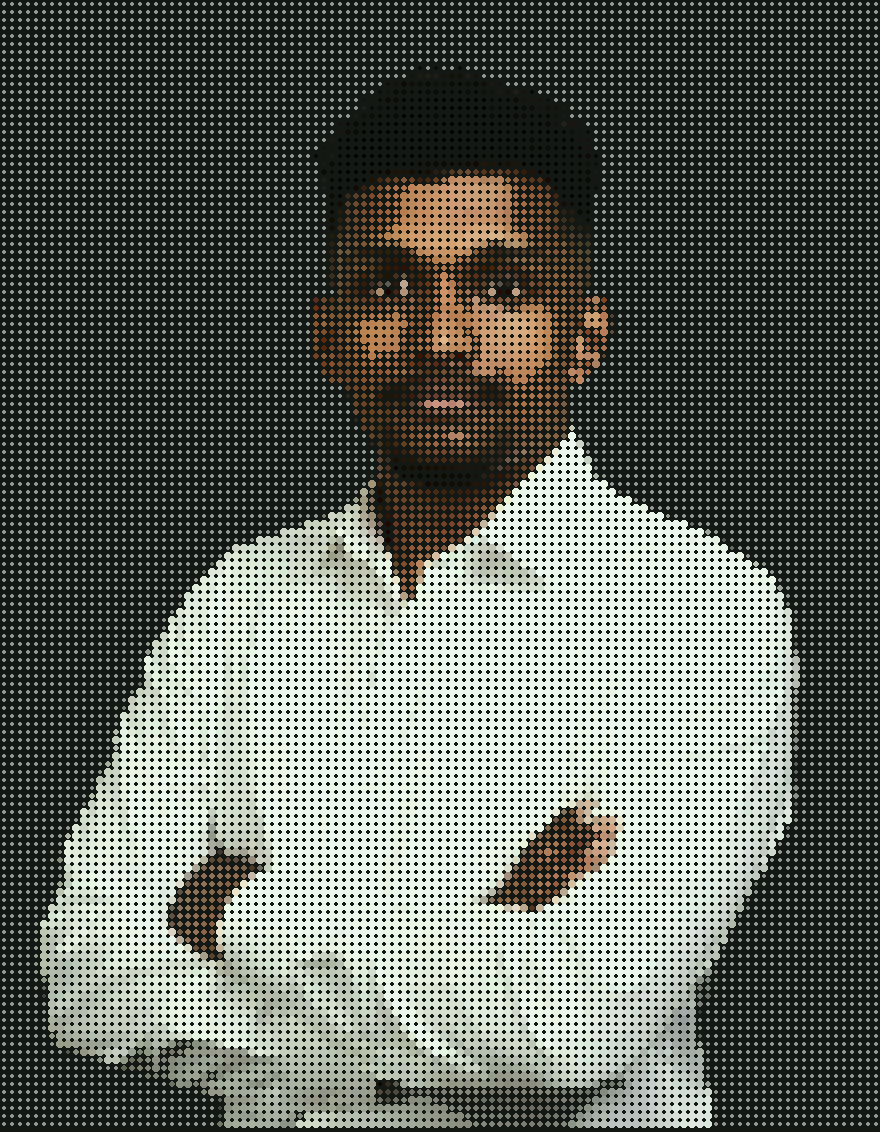
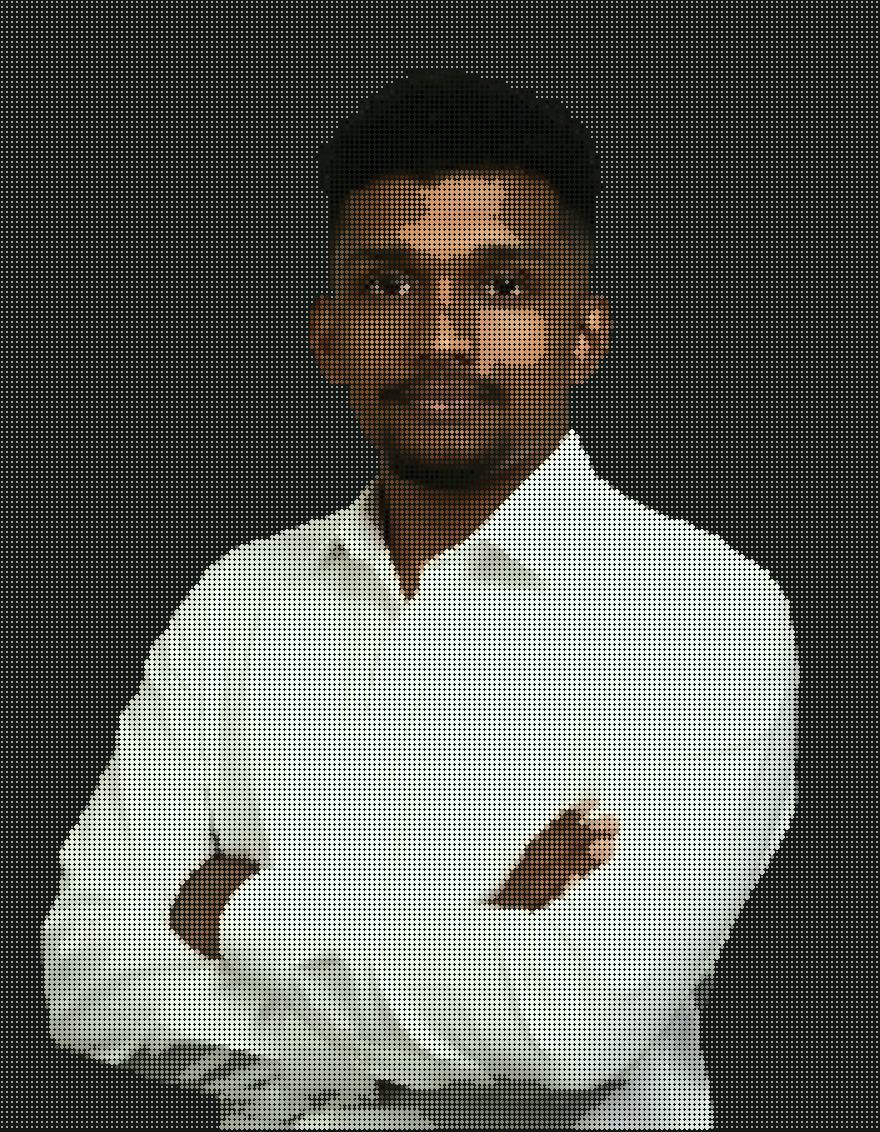
Increase pixel dot-matrix portrait density (DPI) to 112x131 grid

diff --git a/index.html b/index.html
@@ -2318,8 +2318,8 @@ document.addEventListener('keydown', e => {
   if (!canvas) return;
   const ctx = canvas.getContext('2d');
 
-  const COLS = 64;
-  const ROWS = 75;
+  const COLS = 112;
+  const ROWS = 131;
   let dots = [];
   let bgDots = [];
   let cw = 420, ch = 492, cellW = 6.5, cellH = 6.5;
@@ -2470,7 +2470,7 @@ document.addEventListener('keydown', e => {
 
       // 1. Subtle background inactive LED matrix grid
       ctx.fillStyle = 'rgba(65, 86, 68, 0.35)';
-      const bgR = Math.max(0.7, cellW * 0.14);
+      const bgR = Math.max(0.45, cellW * 0.14);
       ctx.beginPath();
       for (let i = 0; i < bgDots.length; i++) {
         const b = bgDots[i];
@@ -2516,8 +2516,8 @@ document.addEventListener('keydown', e => {
         const scanDist = Math.abs(d.y - scanY);
         const scanBoost = scanDist < 34 ? (1 - scanDist / 34) : 0;
 
-        const baseRadius = (cellW * 0.46) * (0.50 + 0.50 * Math.pow(d.lum, 0.7)) * d.alphaFactor;
-        const rad = Math.max(0.8, baseRadius * bootProgress * pulse * (1 + scanBoost * 0.28));
+        const baseRadius = (cellW * 0.45) * (0.50 + 0.50 * Math.pow(d.lum, 0.7)) * d.alphaFactor;
+        const rad = Math.max(0.5, baseRadius * bootProgress * pulse * (1 + scanBoost * 0.28));
 
         const r = Math.min(255, Math.round(d.r + scanBoost * 45));
         const g = Math.min(255, Math.round(d.g + scanBoost * 85));
